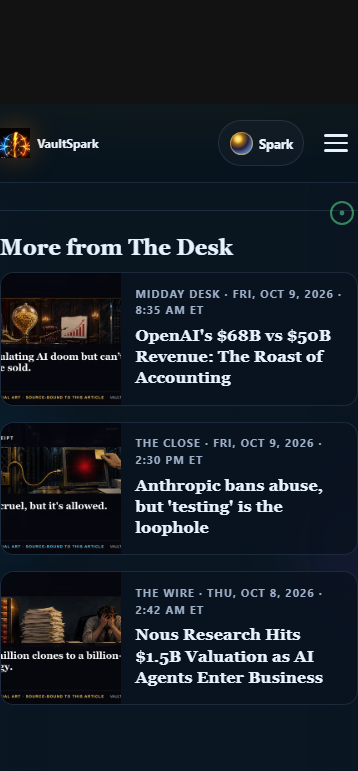
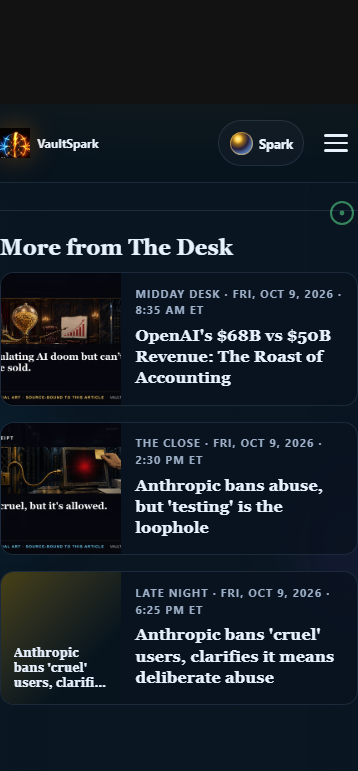
fix(visual-qa): re-review Desk articles after the latenight edition
The scheduled latenight edition (434cced41, [skip ci]) rewrote the
More-from-The-Desk list in both bound articles after the previous receipt, so
E2E 37999440495 failed step 158 again. Recaptured and directly inspected all
28 captures (seven themes, desktop and mobile); 28/28 manual, 0 blocking.
Recorded two pre-existing non-blocking findings (desktop placeholder headline
clip, mobile caption cover-crop). All 400 bound entries equal the committed
blobs after rebasing onto current main.

Changed region(s): [[0.3687, 0.7471, 0.9525, 0.9027], [0.0, 0.716, 0.338, 0.9027]]

diff --git a/docs/INTELLIGENCE_BUDGET_LEDGER.md b/docs/INTELLIGENCE_BUDGET_LEDGER.md
@@ -7,7 +7,7 @@ Free-tier posture: `cost-neutral`
 
 | Surface | Artifact | KB | Posture | Runtime AI cost | Free-tier safe |
 |---|---|---:|---|---|:-:|
-| public-intelligence | api/public-intelligence.json | 27 | cached-static | none-runtime | yes |
+| public-intelligence | api/public-intelligence.json | 27.1 | cached-static | none-runtime | yes |
 | ignis-search-index | data/ignis-search-index.json | 50.6 | local-first | none-runtime | yes |
 | site-health | api/site-health.json | 0.5 | field-rum-aggregate | none-runtime | yes |
 | feedback-provenance | api/feedback-provenance.json | 0.9 | aggregate-public-safe | none-runtime | yes |
@@ -15,7 +15,7 @@ Free-tier posture: `cost-neutral`
 | nervous-system | api/nervous-system.json | 1.9 | cached-static | none-runtime | yes |
 | ship-receipts | api/ship-receipts.json | 0.2 | aggregate-public-safe | none-runtime | yes |
 
-Total generated bytes: 84164
+Total generated bytes: 84213
 
 Measurement plan:
 - bytes from generated artifact sizes
